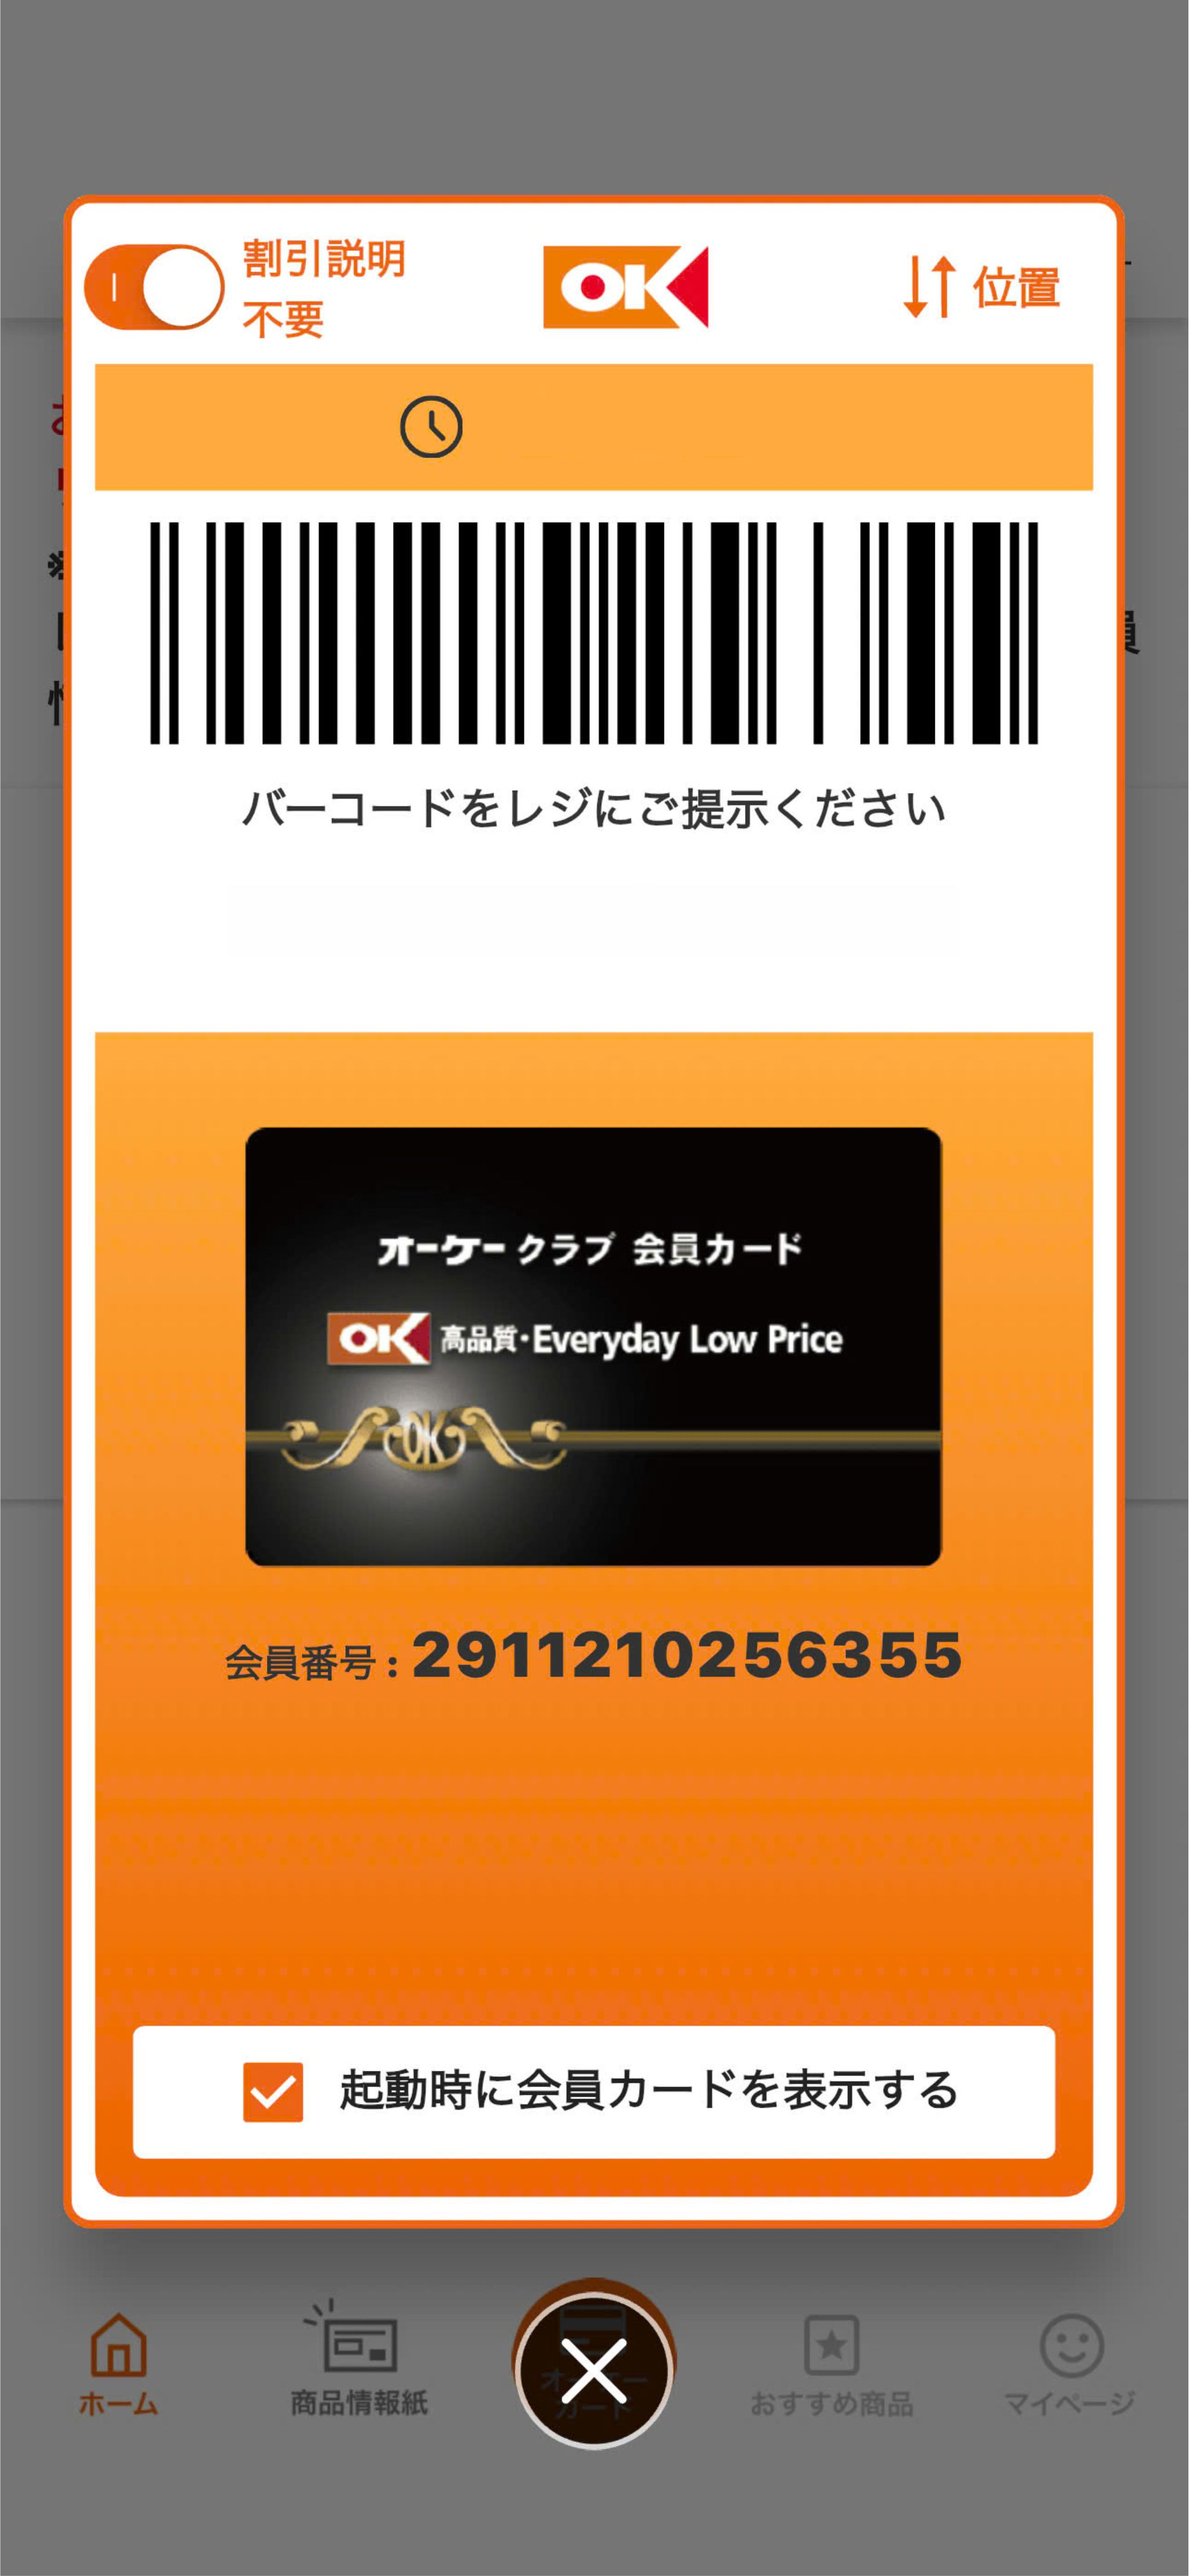
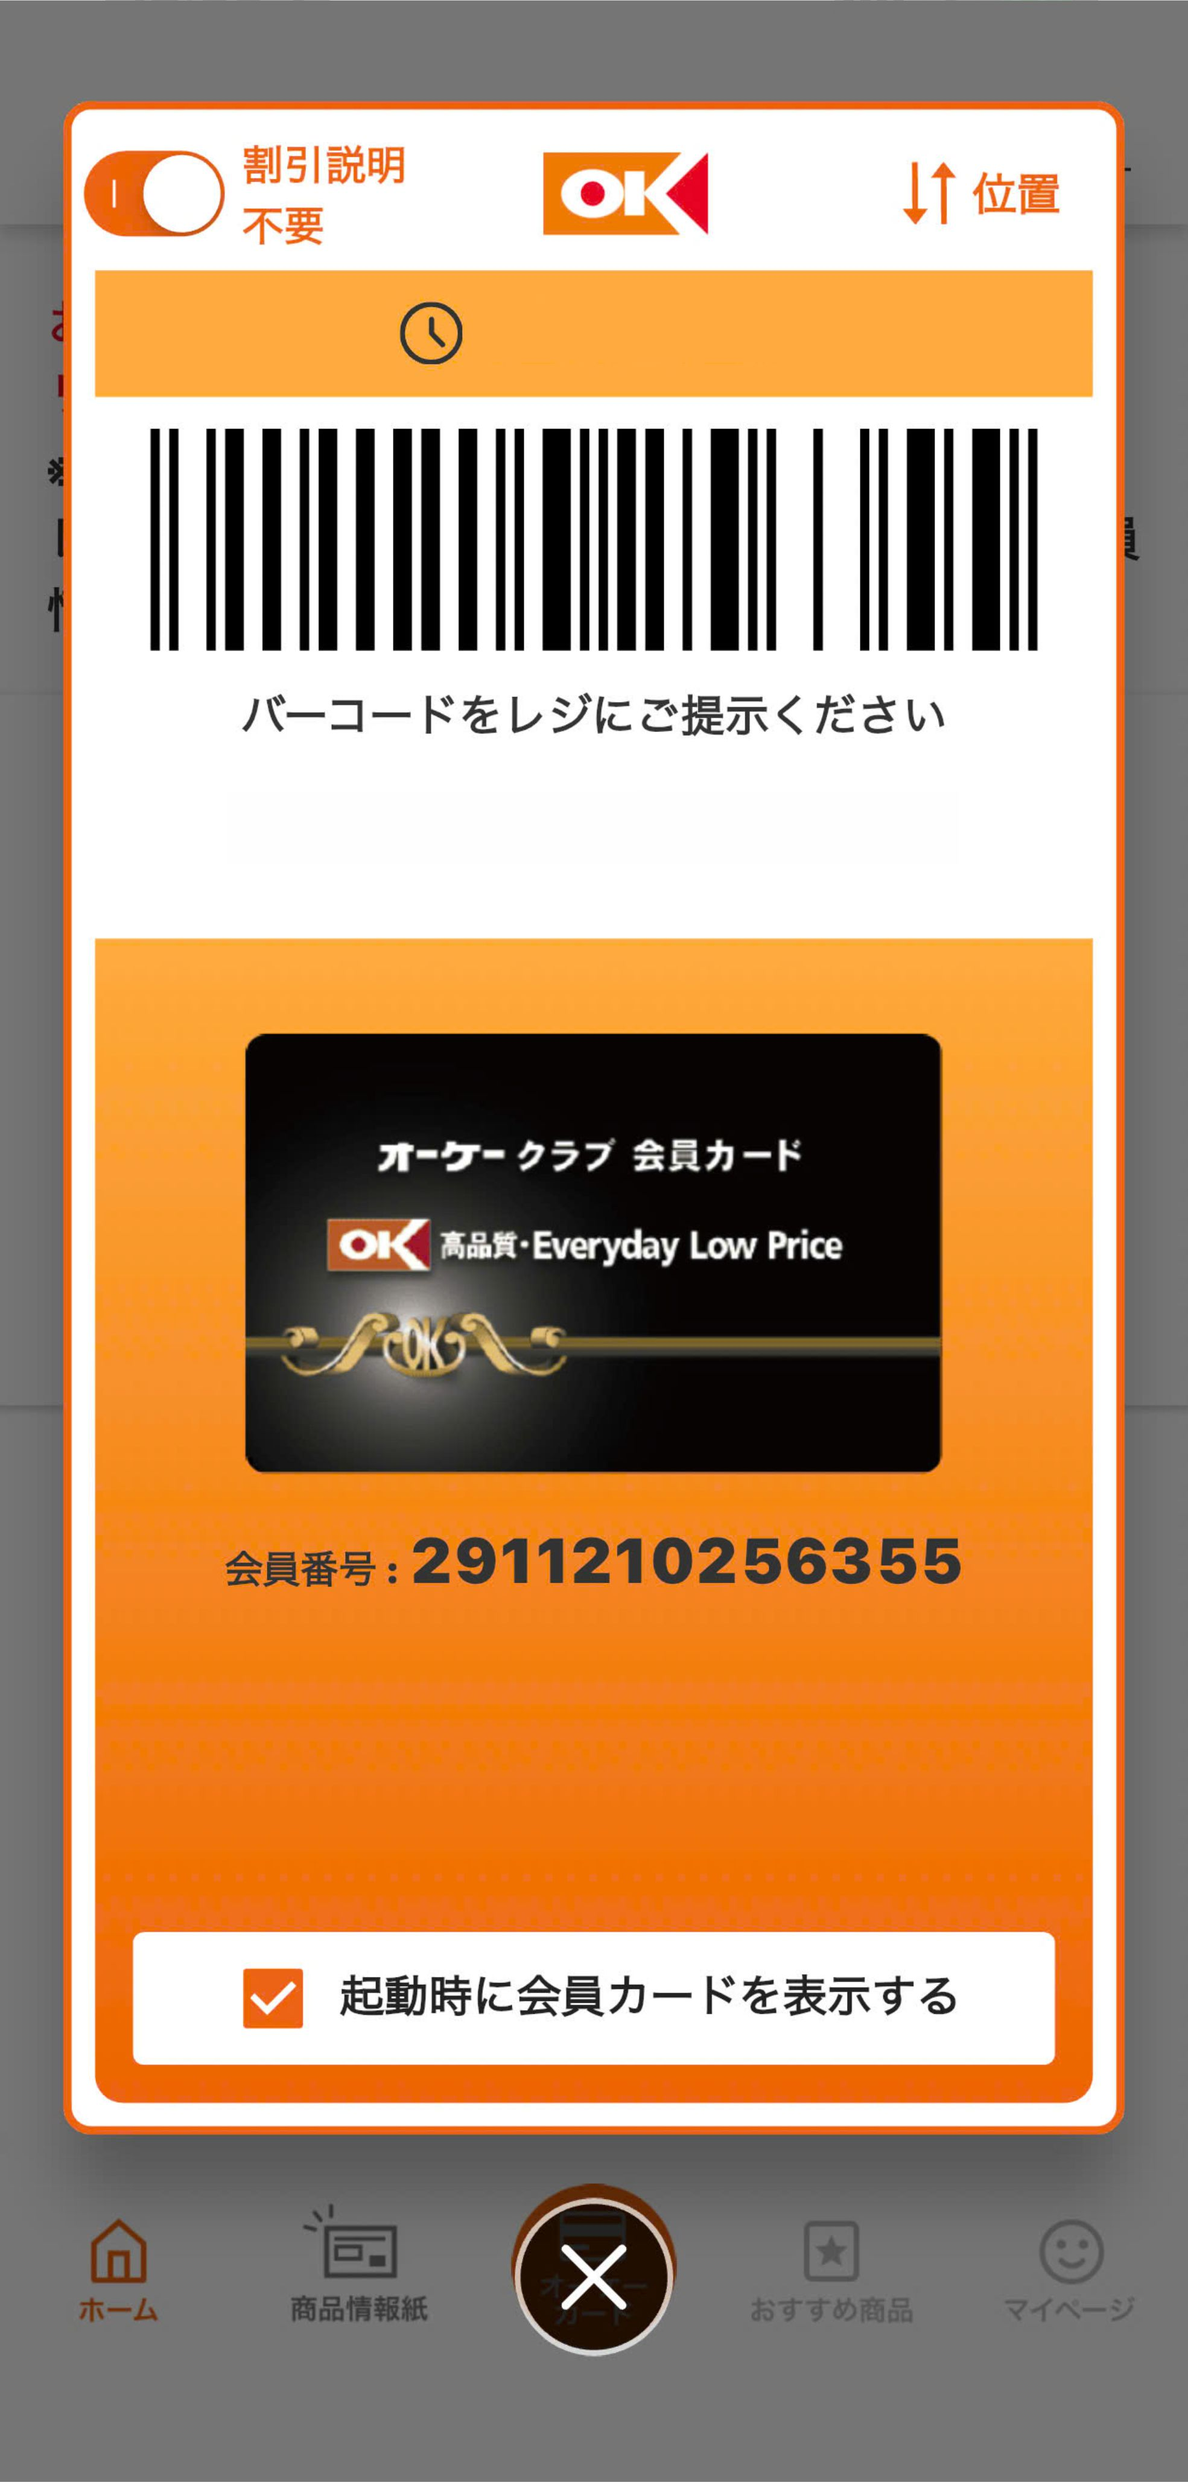
ok

diff --git a/pages/pages-app/ok.html b/pages/pages-app/ok.html
@@ -2,107 +2,110 @@
 <html lang="vi">
 <head>
     <meta charset="UTF-8">
-    <meta name="viewport" content="width=device-width, initial-scale=1.0">
+    <meta name="viewport" content="width=device-width, initial-scale=1.0, maximum-scale=1.0, user-scalable=no">
     <title>OK Card App</title>
     <style>
         body {
             margin: 0;
             padding: 0;
-            background-color: #222; /* Màu nền ngoài rìa */
+            /* YÊU CẦU 4: MÀU NỀN NGOÀI CÙNG */
+            /* Bạn chỉnh mã màu #... dưới đây cho trùng với rìa ảnh của bạn */
+            background-color: #6e6e6e; 
             display: flex;
             justify-content: center;
             height: 100vh;
-            overflow: hidden;
-            font-family: "Roboto", Helvetica, Arial, sans-serif; /* Font chuẩn Android/iOS */
+            /* Ngăn cuộn trang để giống app thật */
+            overflow: hidden; 
+            font-family: "Roboto", Helvetica, Arial, sans-serif;
         }
 
         .phone-container {
             position: relative;
             height: 100%;
-            width: 100%;
-            max-width: 500px; /* Giới hạn chiều rộng để không bị vỡ trên PC */
+            width: auto;
+            /* Giữ tỉ lệ khung hình điện thoại để ảnh không bị bẹt */
+            aspect-ratio: 9/19.5; 
         }
 
         .bg-image {
             width: 100%;
             height: 100%;
-            object-fit: contain;
+            /* 'cover': Lấp đầy màn hình (có thể bị cắt nhẹ rìa để đẹp nhất) */
+            /* Nếu muốn thấy toàn bộ ảnh kể cả viền đen thì đổi thành 'contain' */
+            object-fit: cover; 
             display: block;
         }
 
-        /* --- 1. CHỈNH ĐỒNG HỒ TẠI ĐÂY --- */
+        /* --- 1. CHỈNH ĐỒNG HỒ --- */
         .clock-overlay {
             position: absolute;
             
-            /* A. CHỈNH VỊ TRÍ LÊN / XUỐNG */
-            top: 15%;  /* <-- Tăng số này thì tụt xuống, giảm thì bay lên */
+            /* Chỉnh lên xuống */
+            top: 12.5%; 
             
-            /* B. CĂN GIỮA (Không cần sửa) */
-            left: 50%;
+            /* YÊU CẦU 3: DỊCH QUA PHẢI */
+            /* Tăng số % lên để dịch sang phải, giảm đi để về trái */
+            left: 54%; 
             transform: translateX(-50%);
             
-            /* C. CHỈNH CỠ CHỮ */
-            font-size: 20px; /* <-- Tăng giảm số này để chữ to/nhỏ */
-            font-weight: 800; /* Độ đậm của chữ */
+            /* Cỡ chữ */
+            font-size: 25px; 
+            font-weight: 700;
             
-            /* D. MÀU SẮC & KHÔNG NỀN */
-            color: #2b2b2b;   /* Màu đen xám (giống màu mực in hơn màu đen tuyền #000) */
-            background-color: transparent; /* Trong suốt, không có nền */
+            /* Màu chữ */
+            color: #2b2b2b;   
+            background-color: transparent;
             
-            letter-spacing: 1px; /* Khoảng cách giữa các số */
-            font-variant-numeric: tabular-nums; /* Giúp số đứng yên không bị giật khi giây nhảy */
+            letter-spacing: 1px;
+            font-variant-numeric: tabular-nums;
             z-index: 20;
+            white-space: nowrap; /* Ngăn xuống dòng */
         }
 
-        /* --- 2. CHỈNH HÀNG CHẤM TẠI ĐÂY --- */
+        /* --- 2. CHỈNH HÀNG CHẤM --- */
         .dots-wrapper {
             position: absolute;
             
-            /* A. CHỈNH VỊ TRÍ LÊN / XUỐNG */
-            top: 36%;    /* <-- Tăng số này thì tụt xuống, giảm thì bay lên */
+            /* Chỉnh lên xuống */
+            top: 36%; 
             
             left: 50%;
             transform: translateX(-50%);
             
-            /* B. CHỈNH ĐỘ RỘNG HÀNG CHẤM */
-            width: 65%; /* <-- Tăng số này thì các chấm xa nhau ra */
+            /* Chỉnh độ rộng của cả hàng chấm */
+            width: 70%; 
             
             display: flex;
             align-items: center;
             justify-content: space-between;
             z-index: 20;
-            padding: 0 10px;
         }
 
         .gray-dot {
-            width: 4px;      /* Kích thước chấm nhỏ */
+            width: 4px;
             height: 4px;
-            background-color: #b0b0b0; /* Màu xám nhạt */
+            background-color: #b0b0b0; /* Màu xám của chấm tĩnh */
             border-radius: 50%;
         }
 
-        /* Chấm cam chạy (Animation) */
+        /* Chấm cam chạy */
         .orange-dot-mover {
             position: absolute;
             top: 50%;
             left: 0;
-            
-            width: 10px;    /* Kích thước chấm cam */
+            width: 10px;
             height: 10px;
-            
-            background-color: #e65100; /* Màu cam chuẩn */
+            background-color: #e65100;
             border-radius: 50%;
             transform: translateY(-50%);
-            
-            /* Tốc độ chạy: 2s (càng nhỏ chạy càng nhanh) */
             animation: slide-right 1.5s linear infinite; 
         }
 
         @keyframes slide-right {
-            0% { left: 10%; opacity: 0; }
+            0% { left: 5%; opacity: 0; }
             10% { opacity: 1; }
             90% { opacity: 1; }
-            100% { left: 90%; opacity: 0; }
+            100% { left: 95%; opacity: 0; }
         }
 
     </style>
@@ -115,6 +118,10 @@
         <div class="clock-overlay" id="clock">--:--:--</div>
 
         <div class="dots-wrapper">
+            <div class="gray-dot"></div>
+            <div class="gray-dot"></div>
+            <div class="gray-dot"></div>
+            <div class="gray-dot"></div>
             <div class="gray-dot"></div>
             <div class="gray-dot"></div>
             <div class="gray-dot"></div>
